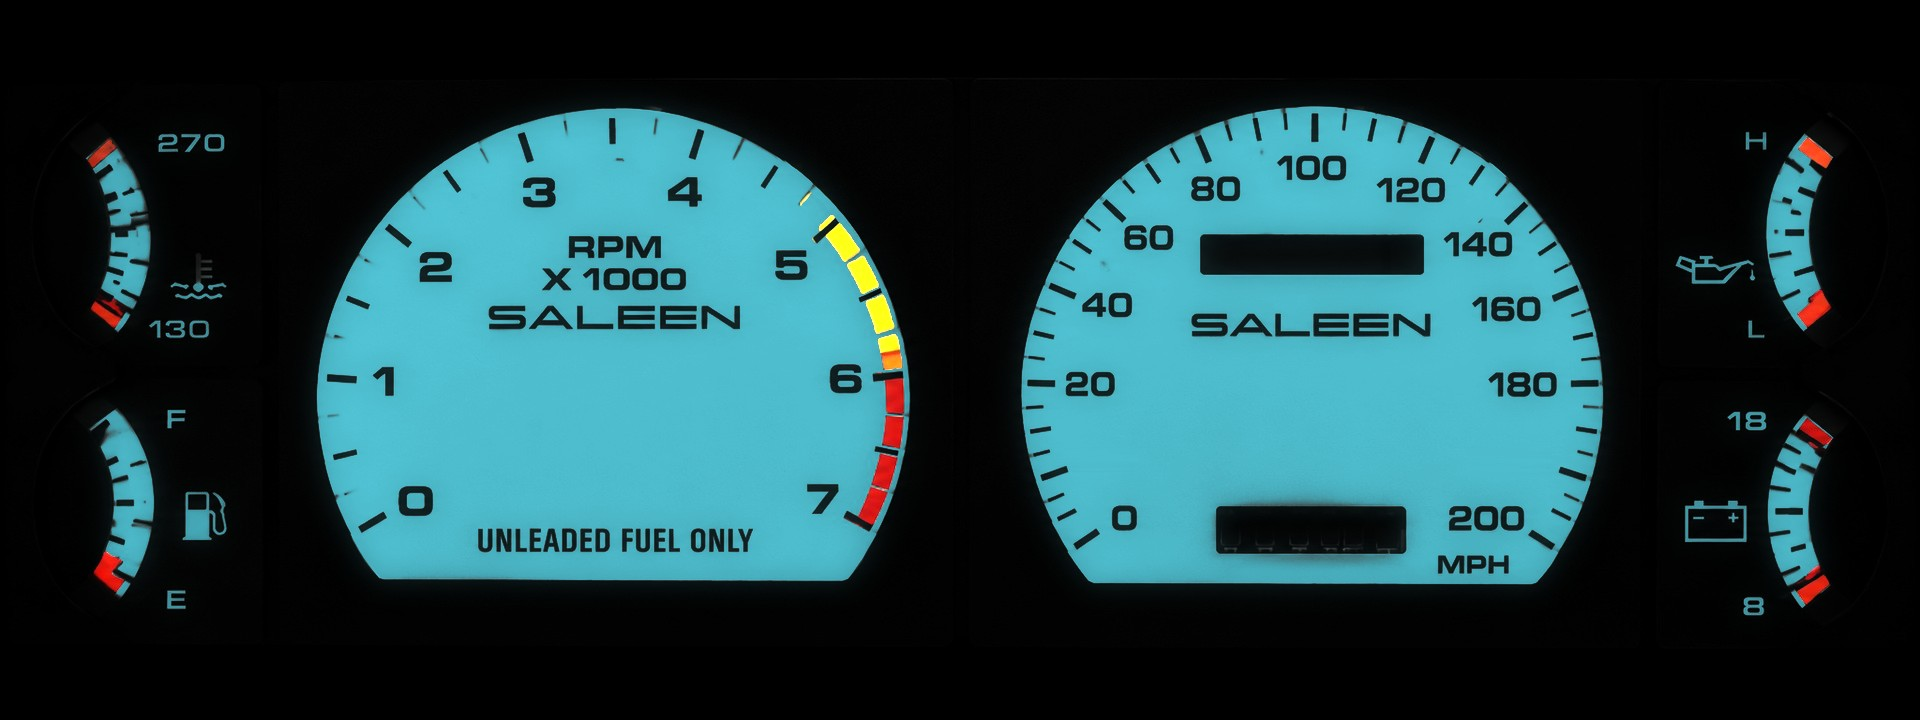
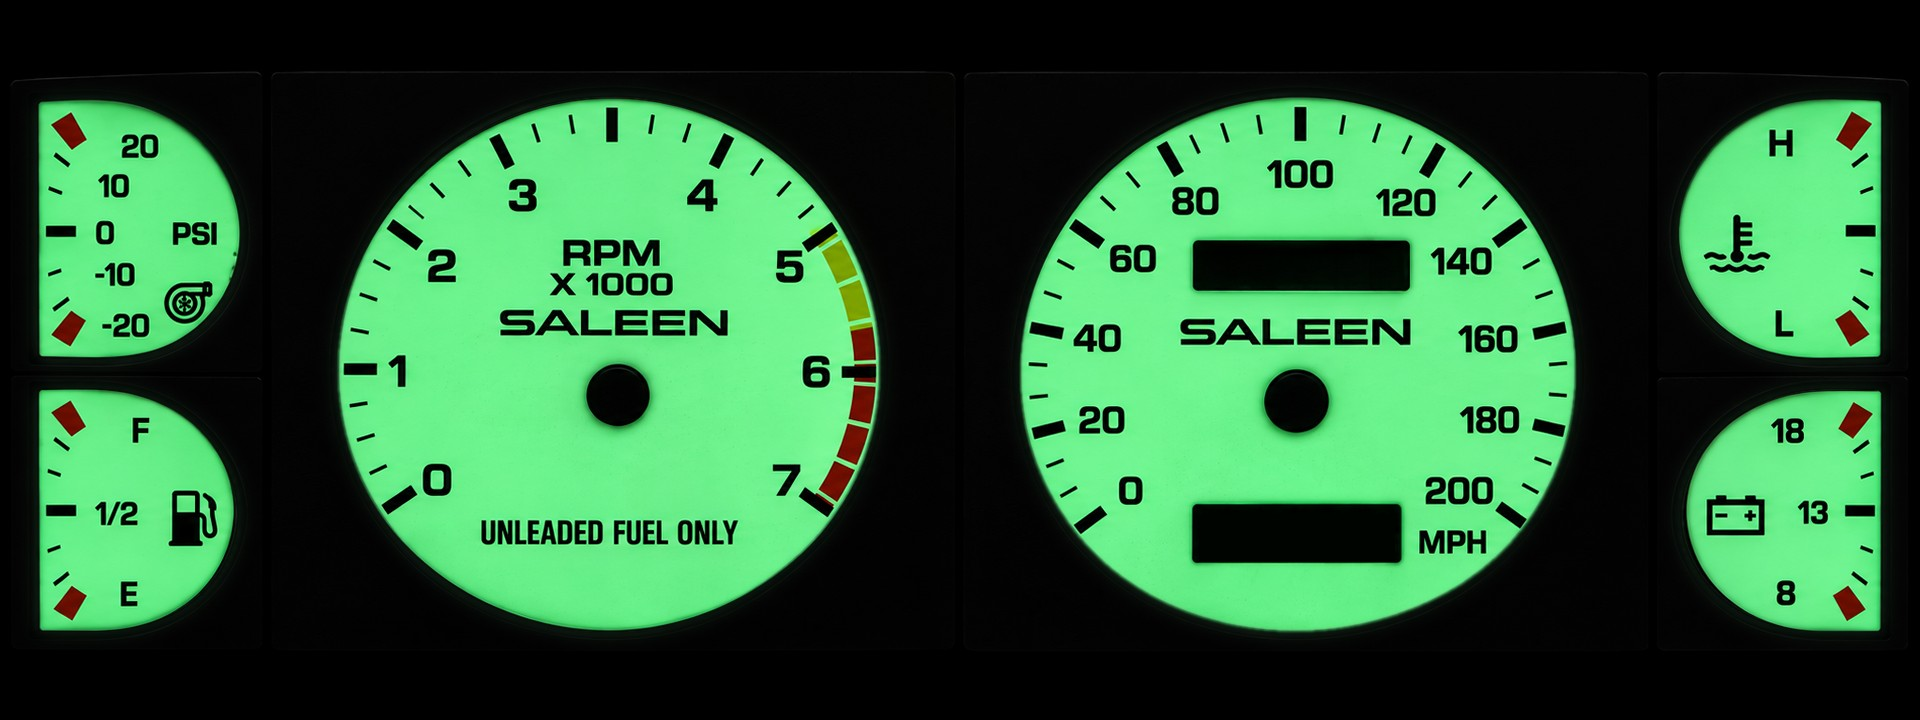
Saleen: the owner's day and night pictures, a boost dial
The new face has a boost dial (-20 to 20 psi) and fuel on the left,
coolant and volts on the right, a 0-7 tach. Every dial is measured again;
the speedometer's upper window shows oil pressure, the lower one the
odometer (its printed digits painted out). The night picture was drawn a
little apart from the day one, so each panel is fitted on its own and cut
along the day faces' outline, with the day picture's housings around it.

diff --git a/hardware/ui/skins.js b/hardware/ui/skins.js
@@ -92,30 +92,34 @@
       ],
       warning: [560, 610, 1360]
     },
-    // Saleen white faces. Coolant in °F; oil printed only L to H, read here as 0-80 psi.
-    // The speedometer's two misprinted labels are painted out of the picture; its marks
-    // follow the labels that are right (an unlabelled tick between 0 and 20 is 10, the one
-    // between 180 and 200 is 190).
+    // Saleen white faces from the owner's day and night pictures: tach 0-7, speedometer to 200
+    // MPH, boost and fuel on the left, coolant (L-H read as 130-270 degF) and volts on the
+    // right. The night picture was drawn a little apart, so it is fitted panel by panel.
     'skin-saleen': {
-      face: 'skins/saleen.jpg?v=229bbbd52f', night: 'skins/saleen-night.jpg?v=0590d0e405', needle: {body: '#e8341c', edge: '#5a0d04', glow: '#ff3a1a'},
+      face: 'skins/saleen.jpg?v=cf7010853f', night: 'skins/saleen-night.jpg?v=4a301745bb', needle: {body: '#e8341c', edge: '#5a0d04', glow: '#ff3a1a'},
       dials: [
-        {id: 'rpm', signal: 'engine.rpm', pivot: [613.8, 406.1], length: 262, tail: 40, width: 10, hub: 24,
-         marks: [[0, 360, 530], [1000, 327.5, 377.5], [2000, 387.5, 226], [3000, 520, 134], [4000, 701.5, 131], [5000, 835, 221], [6000, 902.5, 375], [7000, 870, 527.5]]},
-        {id: 'speed', signal: 'vehicle.speed_kph', convert: mph, pivot: [1310, 400], length: 262, tail: 40, width: 10, hub: 24,
-         marks: [[0, 1075, 546], [10, 1042.5, 475], [20, 1027.5, 382.5], [40, 1050, 287.5], [60, 1105, 201], [80, 1197.5, 136], [100, 1315, 120],
-                 [120, 1430, 150], [140, 1517.5, 212.5], [160, 1565, 292.5], [180, 1580, 382.5], [190, 1575, 474], [200, 1542.5, 540]]},
-        {id: 'coolant', signal: 'engine.coolant_c', convert: fahrenheit, pivot: [42, 233], length: 104, width: 6, clip: [30, 118, 166, 350],
-         marks: [[130, 107.5, 310], [200, 147.5, 235], [270, 102.5, 150]]},
-        {id: 'fuel', read: READ.fuelPct, pivot: [52, 502], length: 104, width: 6, clip: [30, 390, 166, 618],
-         marks: [[0, 110, 572.5], [50, 152.5, 505], [100, 102.5, 422.5]]},
-        {id: 'oil', signal: 'engine.oil_pressure_psi', pivot: [1860, 231], length: 104, width: 6, clip: [1744, 118, 1890, 350],
-         marks: [[0, 1815, 307.5], [40, 1770, 232.5], [80, 1815, 152.5]]},
-        {id: 'volts', signal: 'vehicle.battery_v', pivot: [1860, 509], length: 104, width: 6, clip: [1744, 390, 1890, 618],
-         marks: [[8, 1815, 587.5], [13, 1775, 510], [18, 1815, 430]]}
+        {id: 'rpm', signal: 'engine.rpm', pivot: [613, 393], length: 238, tail: 40, width: 10, hub: 24,
+         marks: [[0, 401.9, 499.4], [1000, 363.5, 371], [2000, 400.6, 240], [3000, 502, 149.2], [3500, 612, 123.6], [4000, 719.2, 148.7],
+                 [5000, 818, 236.2], [6000, 857.5, 374], [7000, 816, 500]]},
+        {id: 'speed', signal: 'vehicle.speed_kph', convert: mph, pivot: [1298, 397], length: 250, tail: 40, width: 10, hub: 24,
+         marks: [[0, 1093.5, 516.5], [20, 1051.5, 426.6], [40, 1048.1, 332.6], [60, 1083.7, 238.6], [80, 1163.3, 162.8], [100, 1298, 125.9],
+                 [120, 1428.3, 162.1], [140, 1510.9, 234.4], [160, 1547.7, 332.5], [180, 1546.8, 424.7], [200, 1507.4, 515.8]]},
+        // The small dials' ticks run down their flat outer edges; the needles pivot just past
+        // the round side, hidden, and show only on the face. The red blocks are the ends.
+        {id: 'boost', read: READ.boostPsi, pivot: [262, 230], length: 190, width: 6, clip: [36, 98, 230, 364],
+         marks: [[-20, 68.5, 328.5], [-10, 55, 271], [0, 61, 228.5], [10, 56, 188.5], [20, 68.5, 131.5]]},
+        {id: 'fuel', read: READ.fuelPct, pivot: [262, 511], length: 190, width: 6, clip: [36, 384, 228, 648],
+         marks: [[0, 68.5, 604], [50, 61, 510], [100, 68.5, 417.5]]},
+        {id: 'coolant', signal: 'engine.coolant_c', convert: fahrenheit, pivot: [1658, 230], length: 190, width: 6, clip: [1690, 98, 1884, 364],
+         marks: [[130, 1851.5, 328.5], [200, 1859, 229.5], [270, 1851.5, 131.5]]},
+        {id: 'volts', signal: 'vehicle.battery_v', pivot: [1658, 511], length: 190, width: 6, clip: [1692, 384, 1884, 648],
+         marks: [[8, 1851.5, 604], [13, 1859, 510], [18, 1851.5, 417.5]]}
       ],
+      // The speedometer's upper window shows oil pressure (the face has no oil dial); the
+      // lower one is the odometer.
       readouts: [
-        {id: 'boost', box: [1202, 235, 1424, 274], style: 'led', text: boostText},
-        {id: 'odometer', box: [1217, 507, 1406, 553], style: 'wheels', text: odometerText}
+        {id: 'oil', box: [1194, 241, 1399, 288], style: 'led', text: (snapshot, live) => { const psi = live('engine.oil_pressure_psi'); return `OIL ${psi === null ? '--' : String(Math.round(psi)).padStart(2, ' ')} PSI`; }},
+        {id: 'odometer', box: [1194, 512, 1388, 560], style: 'wheels', text: odometerText}
       ],
       warning: [560, 616, 1360]
     },

diff --git a/preview/skins.js b/preview/skins.js
@@ -92,30 +92,34 @@
       ],
       warning: [560, 610, 1360]
     },
-    // Saleen white faces. Coolant in °F; oil printed only L to H, read here as 0-80 psi.
-    // The speedometer's two misprinted labels are painted out of the picture; its marks
-    // follow the labels that are right (an unlabelled tick between 0 and 20 is 10, the one
-    // between 180 and 200 is 190).
+    // Saleen white faces from the owner's day and night pictures: tach 0-7, speedometer to 200
+    // MPH, boost and fuel on the left, coolant (L-H read as 130-270 degF) and volts on the
+    // right. The night picture was drawn a little apart, so it is fitted panel by panel.
     'skin-saleen': {
-      face: 'skins/saleen.jpg?v=229bbbd52f', night: 'skins/saleen-night.jpg?v=0590d0e405', needle: {body: '#e8341c', edge: '#5a0d04', glow: '#ff3a1a'},
+      face: 'skins/saleen.jpg?v=cf7010853f', night: 'skins/saleen-night.jpg?v=4a301745bb', needle: {body: '#e8341c', edge: '#5a0d04', glow: '#ff3a1a'},
       dials: [
-        {id: 'rpm', signal: 'engine.rpm', pivot: [613.8, 406.1], length: 262, tail: 40, width: 10, hub: 24,
-         marks: [[0, 360, 530], [1000, 327.5, 377.5], [2000, 387.5, 226], [3000, 520, 134], [4000, 701.5, 131], [5000, 835, 221], [6000, 902.5, 375], [7000, 870, 527.5]]},
-        {id: 'speed', signal: 'vehicle.speed_kph', convert: mph, pivot: [1310, 400], length: 262, tail: 40, width: 10, hub: 24,
-         marks: [[0, 1075, 546], [10, 1042.5, 475], [20, 1027.5, 382.5], [40, 1050, 287.5], [60, 1105, 201], [80, 1197.5, 136], [100, 1315, 120],
-                 [120, 1430, 150], [140, 1517.5, 212.5], [160, 1565, 292.5], [180, 1580, 382.5], [190, 1575, 474], [200, 1542.5, 540]]},
-        {id: 'coolant', signal: 'engine.coolant_c', convert: fahrenheit, pivot: [42, 233], length: 104, width: 6, clip: [30, 118, 166, 350],
-         marks: [[130, 107.5, 310], [200, 147.5, 235], [270, 102.5, 150]]},
-        {id: 'fuel', read: READ.fuelPct, pivot: [52, 502], length: 104, width: 6, clip: [30, 390, 166, 618],
-         marks: [[0, 110, 572.5], [50, 152.5, 505], [100, 102.5, 422.5]]},
-        {id: 'oil', signal: 'engine.oil_pressure_psi', pivot: [1860, 231], length: 104, width: 6, clip: [1744, 118, 1890, 350],
-         marks: [[0, 1815, 307.5], [40, 1770, 232.5], [80, 1815, 152.5]]},
-        {id: 'volts', signal: 'vehicle.battery_v', pivot: [1860, 509], length: 104, width: 6, clip: [1744, 390, 1890, 618],
-         marks: [[8, 1815, 587.5], [13, 1775, 510], [18, 1815, 430]]}
+        {id: 'rpm', signal: 'engine.rpm', pivot: [613, 393], length: 238, tail: 40, width: 10, hub: 24,
+         marks: [[0, 401.9, 499.4], [1000, 363.5, 371], [2000, 400.6, 240], [3000, 502, 149.2], [3500, 612, 123.6], [4000, 719.2, 148.7],
+                 [5000, 818, 236.2], [6000, 857.5, 374], [7000, 816, 500]]},
+        {id: 'speed', signal: 'vehicle.speed_kph', convert: mph, pivot: [1298, 397], length: 250, tail: 40, width: 10, hub: 24,
+         marks: [[0, 1093.5, 516.5], [20, 1051.5, 426.6], [40, 1048.1, 332.6], [60, 1083.7, 238.6], [80, 1163.3, 162.8], [100, 1298, 125.9],
+                 [120, 1428.3, 162.1], [140, 1510.9, 234.4], [160, 1547.7, 332.5], [180, 1546.8, 424.7], [200, 1507.4, 515.8]]},
+        // The small dials' ticks run down their flat outer edges; the needles pivot just past
+        // the round side, hidden, and show only on the face. The red blocks are the ends.
+        {id: 'boost', read: READ.boostPsi, pivot: [262, 230], length: 190, width: 6, clip: [36, 98, 230, 364],
+         marks: [[-20, 68.5, 328.5], [-10, 55, 271], [0, 61, 228.5], [10, 56, 188.5], [20, 68.5, 131.5]]},
+        {id: 'fuel', read: READ.fuelPct, pivot: [262, 511], length: 190, width: 6, clip: [36, 384, 228, 648],
+         marks: [[0, 68.5, 604], [50, 61, 510], [100, 68.5, 417.5]]},
+        {id: 'coolant', signal: 'engine.coolant_c', convert: fahrenheit, pivot: [1658, 230], length: 190, width: 6, clip: [1690, 98, 1884, 364],
+         marks: [[130, 1851.5, 328.5], [200, 1859, 229.5], [270, 1851.5, 131.5]]},
+        {id: 'volts', signal: 'vehicle.battery_v', pivot: [1658, 511], length: 190, width: 6, clip: [1692, 384, 1884, 648],
+         marks: [[8, 1851.5, 604], [13, 1859, 510], [18, 1851.5, 417.5]]}
       ],
+      // The speedometer's upper window shows oil pressure (the face has no oil dial); the
+      // lower one is the odometer.
       readouts: [
-        {id: 'boost', box: [1202, 235, 1424, 274], style: 'led', text: boostText},
-        {id: 'odometer', box: [1217, 507, 1406, 553], style: 'wheels', text: odometerText}
+        {id: 'oil', box: [1194, 241, 1399, 288], style: 'led', text: (snapshot, live) => { const psi = live('engine.oil_pressure_psi'); return `OIL ${psi === null ? '--' : String(Math.round(psi)).padStart(2, ' ')} PSI`; }},
+        {id: 'odometer', box: [1194, 512, 1388, 560], style: 'wheels', text: odometerText}
       ],
       warning: [560, 616, 1360]
     },

diff --git a/preview/dash.html b/preview/dash.html
@@ -9,7 +9,7 @@
   <link rel="stylesheet" href="style.css?v=19a8aa5d9484">
   <link rel="stylesheet" href="review.css?v=4131615d94e6">
   <link rel="stylesheet" href="responsive.css?v=da2c9ab114c3">
-<link rel="stylesheet" href="instruments.css?v=4f29c4fa19af">
+<link rel="stylesheet" href="instruments.css?v=df8b9052152a">
 <link rel="stylesheet" href="camera.css?v=b12b9525cfcb">
 <script src="offline.js?v=c5796081ea94"></script>
 <script src="boot.js?v=447cd355bc91"></script>
@@ -517,7 +517,7 @@
 <script src="units.js?v=7f934be8abf3"></script>
 <script src="review.js?v=c6ec99c5fdab"></script>
 <script src="instruments.js?v=f99ebd832402"></script>
-<script src="skins.js?v=a4769aba567e"></script>
+<script src="skins.js?v=542a3832427a"></script>
 <script src="personalize.js?v=6bb50c768489"></script>
 <script src="trip.js?v=8663447547eb"></script>
 <script src="driving.js?v=ec6c08585e9b"></script>

diff --git a/hardware/ui/instruments.css b/hardware/ui/instruments.css
@@ -31,7 +31,7 @@
 .look-card[data-gauge-preview="skin-ferrari"] .look-art { background:#000 url("skins/ferrari.jpg?v=f3a5132b3c") 50% 50% / contain no-repeat; }
 .look-card[data-gauge-preview="skin-fox"] .look-art { background:#000 url("skins/fox.jpg?v=894d45eccd") 50% 50% / contain no-repeat; }
 .look-card[data-gauge-preview="skin-ferrari-yellow"] .look-art { background:#000 url("skins/ferrari-yellow.jpg?v=f8280b01d3") 50% 50% / contain no-repeat; }
-.look-card[data-gauge-preview="skin-saleen"] .look-art { background:#000 url("skins/saleen.jpg?v=229bbbd52f") 50% 50% / contain no-repeat; }
+.look-card[data-gauge-preview="skin-saleen"] .look-art { background:#000 url("skins/saleen.jpg?v=cf7010853f") 50% 50% / contain no-repeat; }
 .look-card[data-gauge-preview^="skin-"] .look-art > * { visibility:hidden; }
 :root { --needle:#f5f0df; }
 .custom-cluster,.cluster-telemetry { display:none; }

diff --git a/preview/instruments.css b/preview/instruments.css
@@ -31,7 +31,7 @@
 .look-card[data-gauge-preview="skin-ferrari"] .look-art { background:#000 url("skins/ferrari.jpg?v=f3a5132b3c") 50% 50% / contain no-repeat; }
 .look-card[data-gauge-preview="skin-fox"] .look-art { background:#000 url("skins/fox.jpg?v=894d45eccd") 50% 50% / contain no-repeat; }
 .look-card[data-gauge-preview="skin-ferrari-yellow"] .look-art { background:#000 url("skins/ferrari-yellow.jpg?v=f8280b01d3") 50% 50% / contain no-repeat; }
-.look-card[data-gauge-preview="skin-saleen"] .look-art { background:#000 url("skins/saleen.jpg?v=229bbbd52f") 50% 50% / contain no-repeat; }
+.look-card[data-gauge-preview="skin-saleen"] .look-art { background:#000 url("skins/saleen.jpg?v=cf7010853f") 50% 50% / contain no-repeat; }
 .look-card[data-gauge-preview^="skin-"] .look-art > * { visibility:hidden; }
 :root { --needle:#f5f0df; }
 .custom-cluster,.cluster-telemetry { display:none; }

diff --git a/tests/browser_skins.py b/tests/browser_skins.py
@@ -75,7 +75,7 @@ async def main(path):
         await page.evaluate("frogdashDemo.scenario('drive')")
         await page.locator('#appearance-launch').click()
         await page.locator('[data-appearance-tab="instruments"]').click()
-        for name, readouts in (('skin-fox', {'boost': 'PSI', 'odometer': '067456 MI'}), ('skin-saleen', {'boost': 'PSI', 'odometer': '067456'}),
+        for name, readouts in (('skin-fox', {'boost': 'PSI', 'odometer': '067456 MI'}), ('skin-saleen', {'oil': 'OIL', 'odometer': '067456'}),
                                ('skin-ferrari-yellow', {'afr': 'AFR', 'intake': 'INTAKE', 'odometer': '067456'})):
             await page.locator('#appearance-gauges').select_option(name)
             await page.wait_for_function('(n) => document.querySelector(".skin-cluster")?.dataset.skin === n', arg=name)
